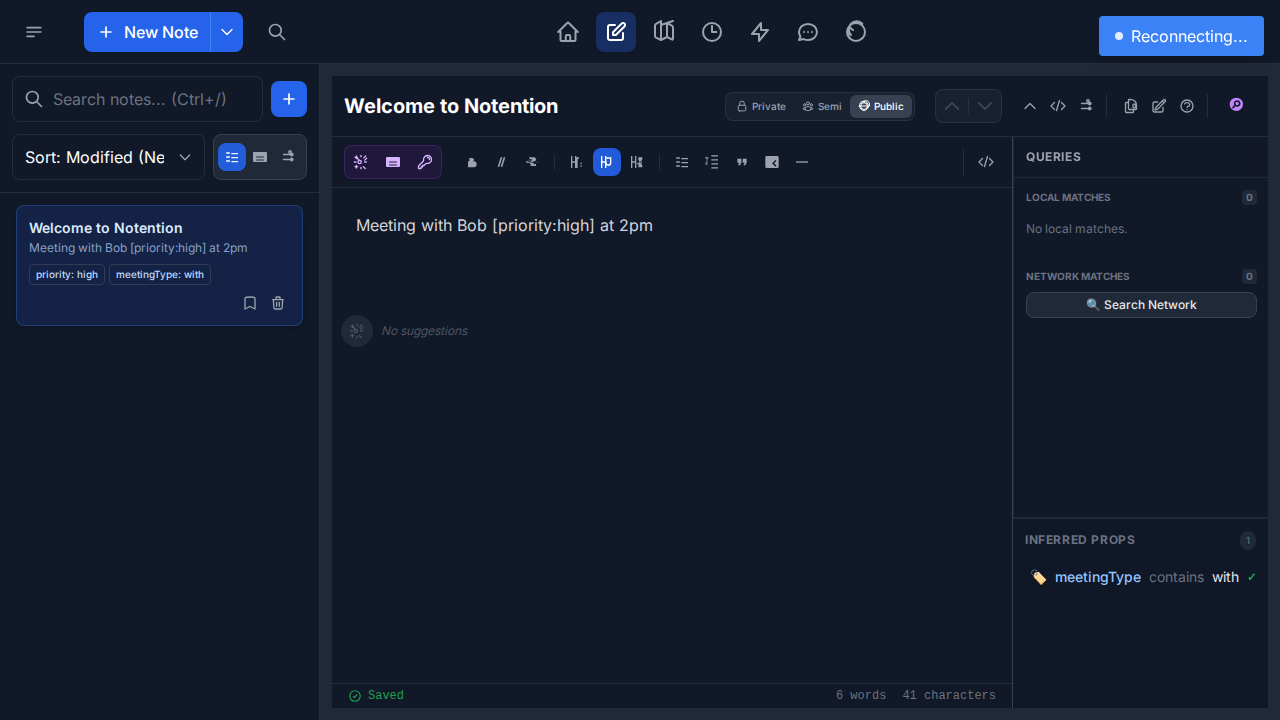
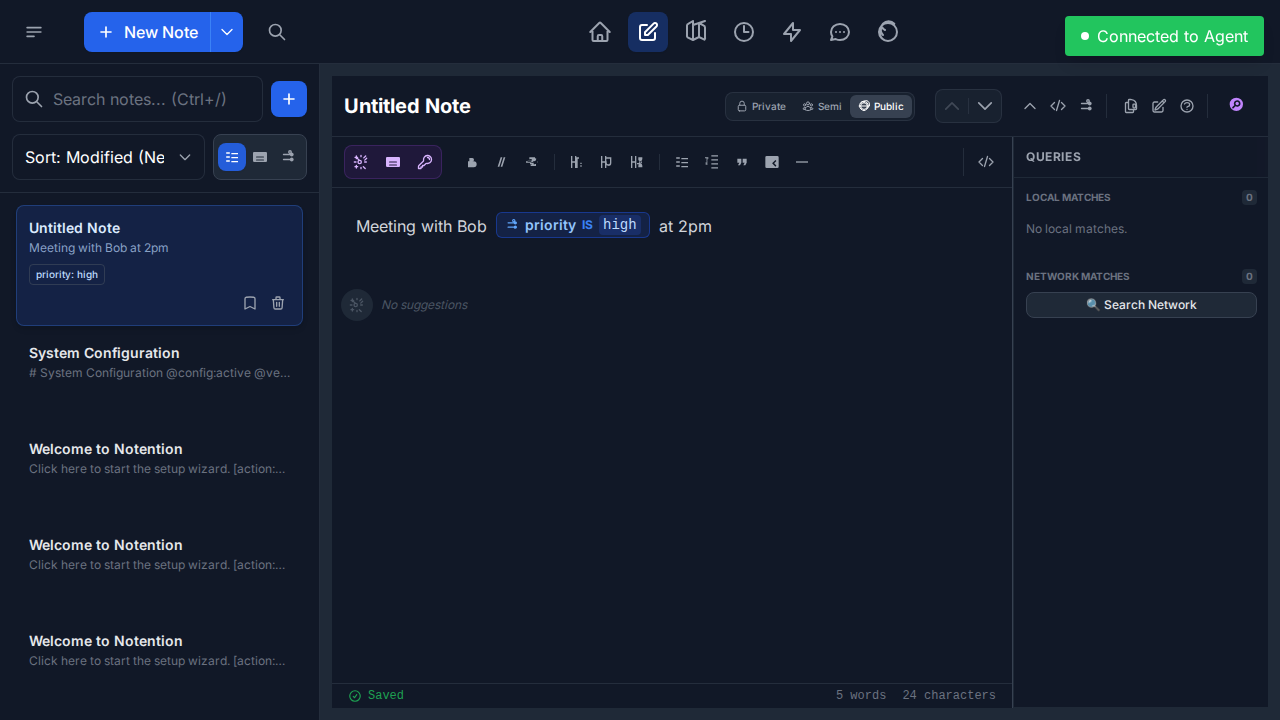
Verify functional completeness (Phases 1-5.2), enable offline CLI, and polish UI/UX.

diff --git a/verification/verify_ui_screenshots.spec.ts b/verification/verify_ui_screenshots.spec.ts
@@ -7,97 +7,81 @@ test('UI Screenshot Verification', async ({ page }) => {
     await page.goto('http://localhost:5173');
 
     // Check for Onboarding Modal
+    const modalOverlay = page.locator('.fixed.inset-0.z-50');
     const modalTitle = page.locator('h2.text-2xl.font-bold').filter({ hasText: 'Welcome to Notention' });
+
     try {
         await modalTitle.waitFor({ state: 'visible', timeout: 5000 });
         console.log('Onboarding modal detected.');
-        const actionBtn = page.getByRole('button', { name: 'Get Started' })
-            .or(page.getByRole('button', { name: 'Next' })).first();
 
-        if (await actionBtn.isVisible()) {
-             console.log('Clicking action button...');
-             await actionBtn.click();
-             await page.waitForTimeout(1000);
-        } else {
-             console.log('No obvious button found. Trying to click outside...');
-             await page.mouse.click(10, 10);
+        let attempts = 0;
+        while (await modalOverlay.isVisible() && attempts < 5) {
+            const actionBtn = page.getByRole('button', { name: 'Get Started' })
+                .or(page.getByRole('button', { name: 'Next' }))
+                .or(page.getByRole('button', { name: 'Skip' }))
+                .or(page.getByRole('button', { name: 'Finish' }))
+                .first();
+
+            if (await actionBtn.isVisible()) {
+                 await actionBtn.click();
+                 await page.waitForTimeout(500);
+            } else {
+                 await page.mouse.click(10, 10);
+                 await page.waitForTimeout(500);
+            }
+            attempts++;
         }
+        await expect(modalOverlay).not.toBeVisible({ timeout: 5000 });
     } catch (e) {
-        console.log('Onboarding modal not found or timed out.');
+        // Ignore
     }
 
-    // Check if we are already in editor
-    if (await page.locator('.ProseMirror').count() > 0) {
-        console.log('Already in editor.');
-    } else {
-        // Try "Create First Note"
-        console.log('Looking for creation buttons...');
+    // Create Note if needed
+    if (await page.locator('.ProseMirror').count() === 0) {
         const createFirstBtn = page.getByRole('button', { name: 'Create First Note' });
-
         if (await createFirstBtn.isVisible()) {
-            console.log('Clicking Create First Note...');
-            try {
-                await createFirstBtn.click();
-            } catch (e) {
-                console.log('Click failed (maybe detached), continuing assuming navigation started...');
-            }
+            await createFirstBtn.click();
         } else {
-            // Try "New Note" in header
             const headerNewBtn = page.locator('button').filter({ hasText: 'New Note' });
-
-            if (await headerNewBtn.count() > 0 && await headerNewBtn.first().isVisible()) {
-                 console.log('Clicking New Note (Header)...');
-                 await headerNewBtn.first().click();
-            }
+            if (await headerNewBtn.count() > 0) await headerNewBtn.first().click();
         }
     }
 
     console.log('Waiting for editor...');
-    try {
-        await page.waitForSelector('.ProseMirror', { timeout: 30000 });
-    } catch (e) {
-        console.log('Editor not found. Taking debug screenshot...');
-        await page.screenshot({ path: 'verification/debug_editor_fail.png' });
-        throw e;
-    }
+    await page.waitForSelector('.ProseMirror', { timeout: 30000 });
 
-    // Type content
+    // Clear editor first just in case
+    await page.locator('.ProseMirror').clear();
+
+    // Type content - Use pressSequentially to trigger InputRules
     console.log('Typing note...');
-    await page.locator('.ProseMirror').fill('Meeting with Bob [priority:high] at 2pm');
+    await page.locator('.ProseMirror').pressSequentially('Meeting with Bob ');
+    await page.waitForTimeout(500);
+    // Type the property carefully to trigger the rule on ']'
+    await page.locator('.ProseMirror').pressSequentially('[priority:high]');
+    // Wait for rule to apply
+    await page.waitForTimeout(1000);
 
-    // Wait for property extraction (chips or formatting)
+    await page.locator('.ProseMirror').pressSequentially(' at 2pm');
+
+    // Wait for UI to settle
     await page.waitForTimeout(2000);
 
     // Screenshot Authoring
     console.log('Taking screenshot_authoring.png...');
     await page.screenshot({ path: 'verification/screenshot_authoring.png' });
 
-    // 2. P2P Publishing
-    console.log('Looking for privacy control...');
+    // P2P Publishing
     const publicBtn = page.locator('button[title="Set to public"]');
-
     if (await publicBtn.count() > 0 && await publicBtn.first().isVisible()) {
-        console.log('Clicking Public button...');
         await publicBtn.first().click();
-
-        // Handle confirmation modal
         const confirmBtn = page.getByRole('button', { name: 'Confirm' });
-
         try {
             await confirmBtn.waitFor({ state: 'visible', timeout: 5000 });
-            console.log('Confirming privacy change...');
             await confirmBtn.click();
-        } catch (e) {
-            console.log('Confirmation modal did not appear or was not clickable.');
-        }
-
-        await page.waitForTimeout(2000); // Wait for state change
-
-        // Screenshot P2P
+        } catch (e) {}
+        await page.waitForTimeout(2000);
         console.log('Taking screenshot_p2p.png...');
         await page.screenshot({ path: 'verification/screenshot_p2p.png' });
-    } else {
-        console.log('Privacy control not found, skipping P2P screenshot');
-        await page.screenshot({ path: 'verification/debug_privacy_fail.png' });
     }
 });

diff --git a/ui/src/services/AgentService.ts b/ui/src/services/AgentService.ts
@@ -4,21 +4,25 @@ import { capabilities } from '../config/Capabilities';
 class AgentService extends RobustWebSocket {
 
   constructor() {
-    super();
+    // Reduce max retries to fail faster to Offline mode
+    super({ maxReconnectAttempts: 1 });
   }
 
   async connect(url?: string): Promise<void> {
     if (!capabilities.agent) {
       this.logger.info('Agent subsystem disabled via config');
-      // Status remains 'disconnected' or we can leave it as is.
-      // Important: Do NOT call fallbackToOfflineMode() which emits 'connected'.
       return;
     }
 
     const resolvedUrl = await this.resolveUrl(url);
 
     if (resolvedUrl) {
-      await super.connect(resolvedUrl);
+      try {
+        await super.connect(resolvedUrl);
+      } catch (e) {
+        this.logger.warn('Initial connection failed, falling back to offline', e);
+        this.fallbackToOfflineMode();
+      }
     } else {
       this.logger.info('Operating in offline mode');
       this.fallbackToOfflineMode();

diff --git a/ui/src/components/editor/PropertyExtension.ts b/ui/src/components/editor/PropertyExtension.ts
@@ -73,6 +73,7 @@ export const PropertyExtension = Node.create({
 
   addInputRules() {
     return [
+      // Standard format [key:op:val]
       new InputRule({
         find: /\[([^:]+):([^:]+):([^\]]+)\]$/,
         handler: ({ state, range, match }) => {
@@ -80,6 +81,23 @@ export const PropertyExtension = Node.create({
             name: match[1],
             operator: match[2],
             value: match[3],
+          };
+
+          const { tr } = state;
+          const start = range.from;
+          const end = range.to;
+
+          tr.replaceWith(start, end, this.type.create(attributes));
+        },
+      }),
+      // Short format [key:val] -> implies 'is'
+      new InputRule({
+        find: /\[([^:]+):([^:\]]+)\]$/,
+        handler: ({ state, range, match }) => {
+          const attributes = {
+            name: match[1],
+            operator: 'is',
+            value: match[2],
           };
 
           const { tr } = state;

diff --git a/core/src/propertyExtractor.ts b/core/src/propertyExtractor.ts
@@ -126,12 +126,13 @@ export class PropertyExtractor {
     private applyFuzzyMatchingStrategy(text: string, properties: Property[]): void {
         const words = text.split(/\s+/).filter(w => w.length > 3);
         const existingKeys = new Set(properties.map(p => p.key));
+        const STOP_WORDS = new Set(['with', 'the', 'and', 'for', 'from', 'near', 'about', 'that', 'this']);
 
         for (const [index, word] of words.entries()) {
             const matches = this.ontologyService.getFuzzyMatches(word, 1);
             if (matches.length > 0 && !existingKeys.has(matches[0])) {
                 const nextWord = words[index + 1];
-                if (nextWord?.length > 2) {
+                if (nextWord?.length > 2 && !STOP_WORDS.has(nextWord.toLowerCase())) {
                     properties.push({ key: matches[0], operator: 'contains', values: [nextWord] });
                     existingKeys.add(matches[0]);
                 }

diff --git a/ui/src/components/editor/useTiptapConfig.ts b/ui/src/components/editor/useTiptapConfig.ts
@@ -94,7 +94,7 @@ export const useTiptapConfig = ({ content, onUpdate, ontology, templates = [], m
     content: sanitizeHTML(content),
     editorProps: {
       attributes: {
-        class: `prose prose-invert prose-sm focus:outline-none h-full max-w-none w-full ${minimal ? 'p-2 text-xs' : 'sm:prose-base lg:prose-lg xl:prose-2xl p-4'}`,
+        class: `prose prose-invert focus:outline-none h-full max-w-none w-full ${minimal ? 'p-2 text-sm prose-sm' : 'prose-lg sm:prose-xl lg:prose-2xl p-6'}`,
       },
     },
     onUpdate: ({ editor }) => onUpdate(editor.getHTML()),
